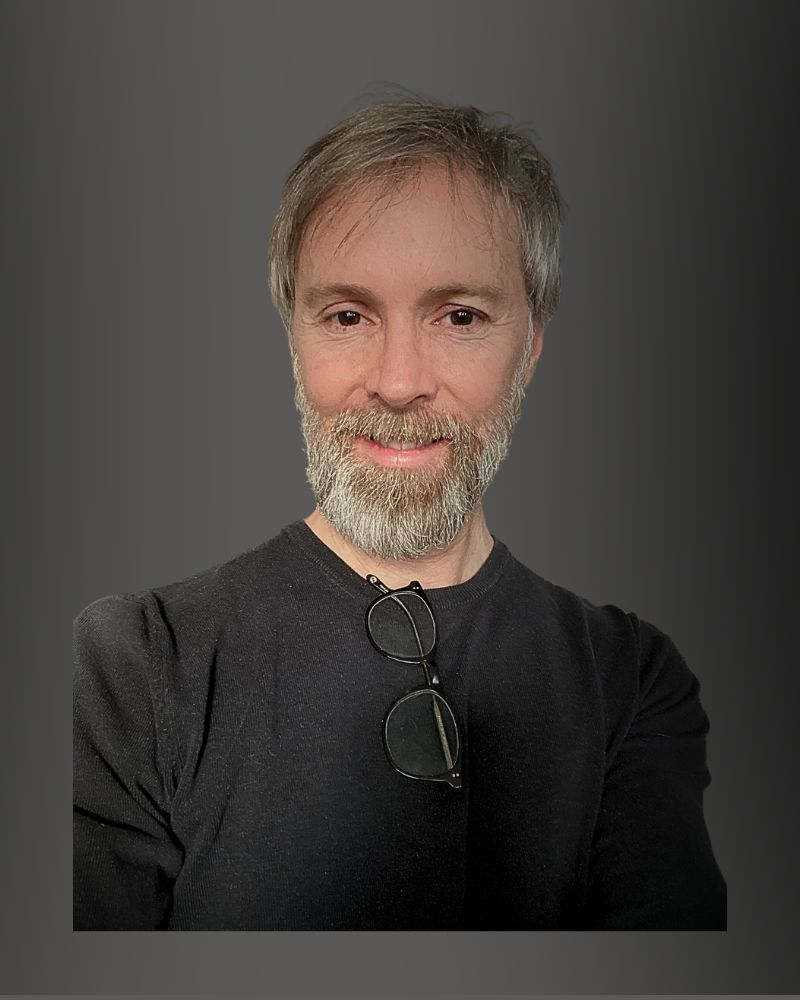
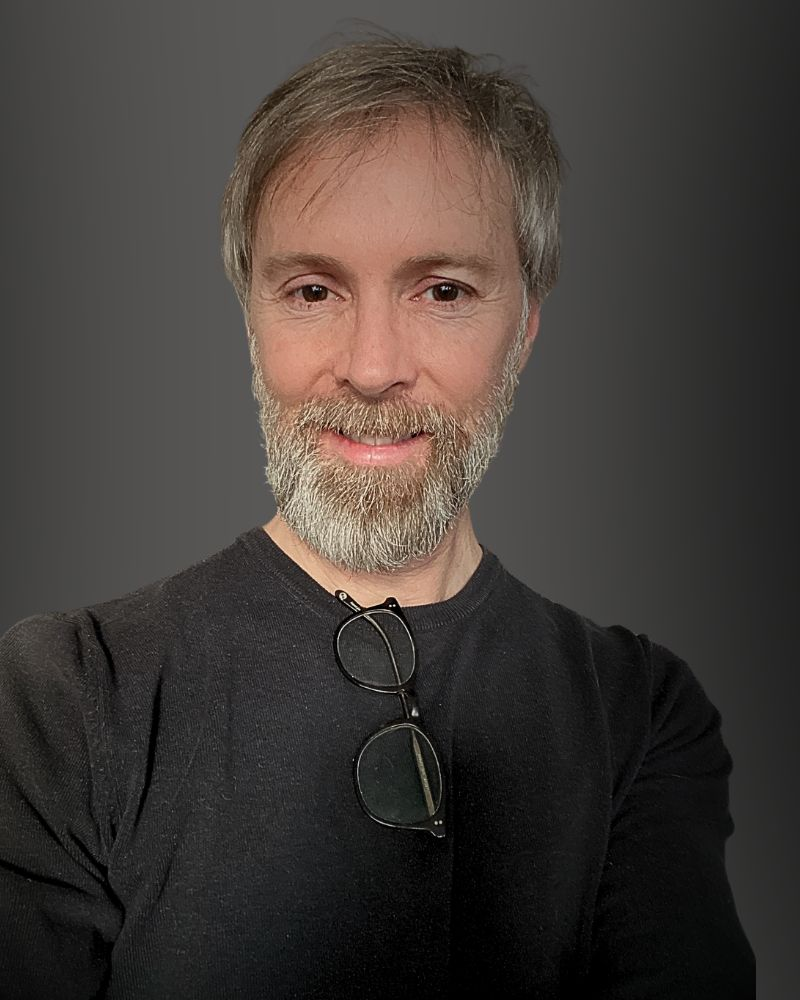
Author page: switch portrait to editorial rectangle and align right on desktop

diff --git a/src/AuthorPage.tsx b/src/AuthorPage.tsx
@@ -196,8 +196,8 @@ export default function AuthorPage() {
           <div className="grid md:grid-cols-2 items-center gap-12 md:gap-16">
 
             {/* Portrait image first on mobile */}
-            <div className="order-1 md:order-2 flex justify-center">
-              <div className="w-[72vw] sm:w-72 md:w-96 aspect-square rounded-full shadow-lg overflow-hidden">
+            <div className="order-1 md:order-2 flex justify-center md:justify-end">
+              <div className="w-[72vw] sm:w-72 md:w-80 aspect-[4/5] rounded-xl shadow-md overflow-hidden">
                 <img
                   src="/Author_image.jpg"
                   alt="Author portrait of Frederic G. Fleron Grignard"
